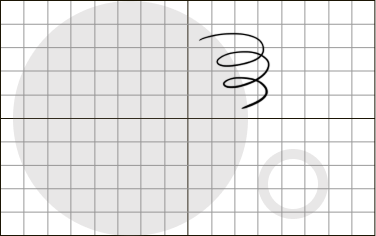
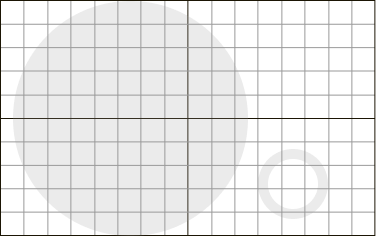
remove all spirals following figma

Changed region(s): [[0.5266, 0.1186, 0.7314, 0.4153], [0.6436, 0.4153, 0.7021, 0.4746]]

diff --git a/components/ManifestoPage/ManifestoPage.tsx b/components/ManifestoPage/ManifestoPage.tsx
@@ -20,17 +20,6 @@ const ManifestoPage = () => {
       </div>
       <div className="relative w-full md:w-2/4 flex justify-center text-grey-moss-900">
         <div className="w-fit relative">
-          <div className="block md:hidden absolute w-screen h-full pointer-events-none top-[-120px] -left-4">
-            <Image
-              src="/mobile-spiral-transparent.svg"
-              blurDataURL="/mobile-spiral-transparent.png"
-              layout="fill"
-              alt="not found image"
-              className="plus-lighter"
-              objectFit="cover"
-              objectPosition="top center"
-            />
-          </div>
           <p className="font-archivo text-2xl md:text-5xl tracking-[-1px] relative z-[2]">
             in process: a manifesto
           </p>
@@ -87,17 +76,6 @@ Here, we document in real time, onchain, on our terms.`}
           alt="not found artwork"
           objectFit="cover"
           objectPosition="left"
-        />
-      </div>
-      <div className="hidden md:block absolute size-full pointer-events-none left-0 md:left-[5%]">
-        <Image
-          src="/spiral-transparent.svg"
-          blurDataURL="/spiral-transparent.png"
-          layout="fill"
-          alt="not found image"
-          className="plus-lighter"
-          objectFit="contain"
-          objectPosition="top center"
         />
       </div>
     </div>
